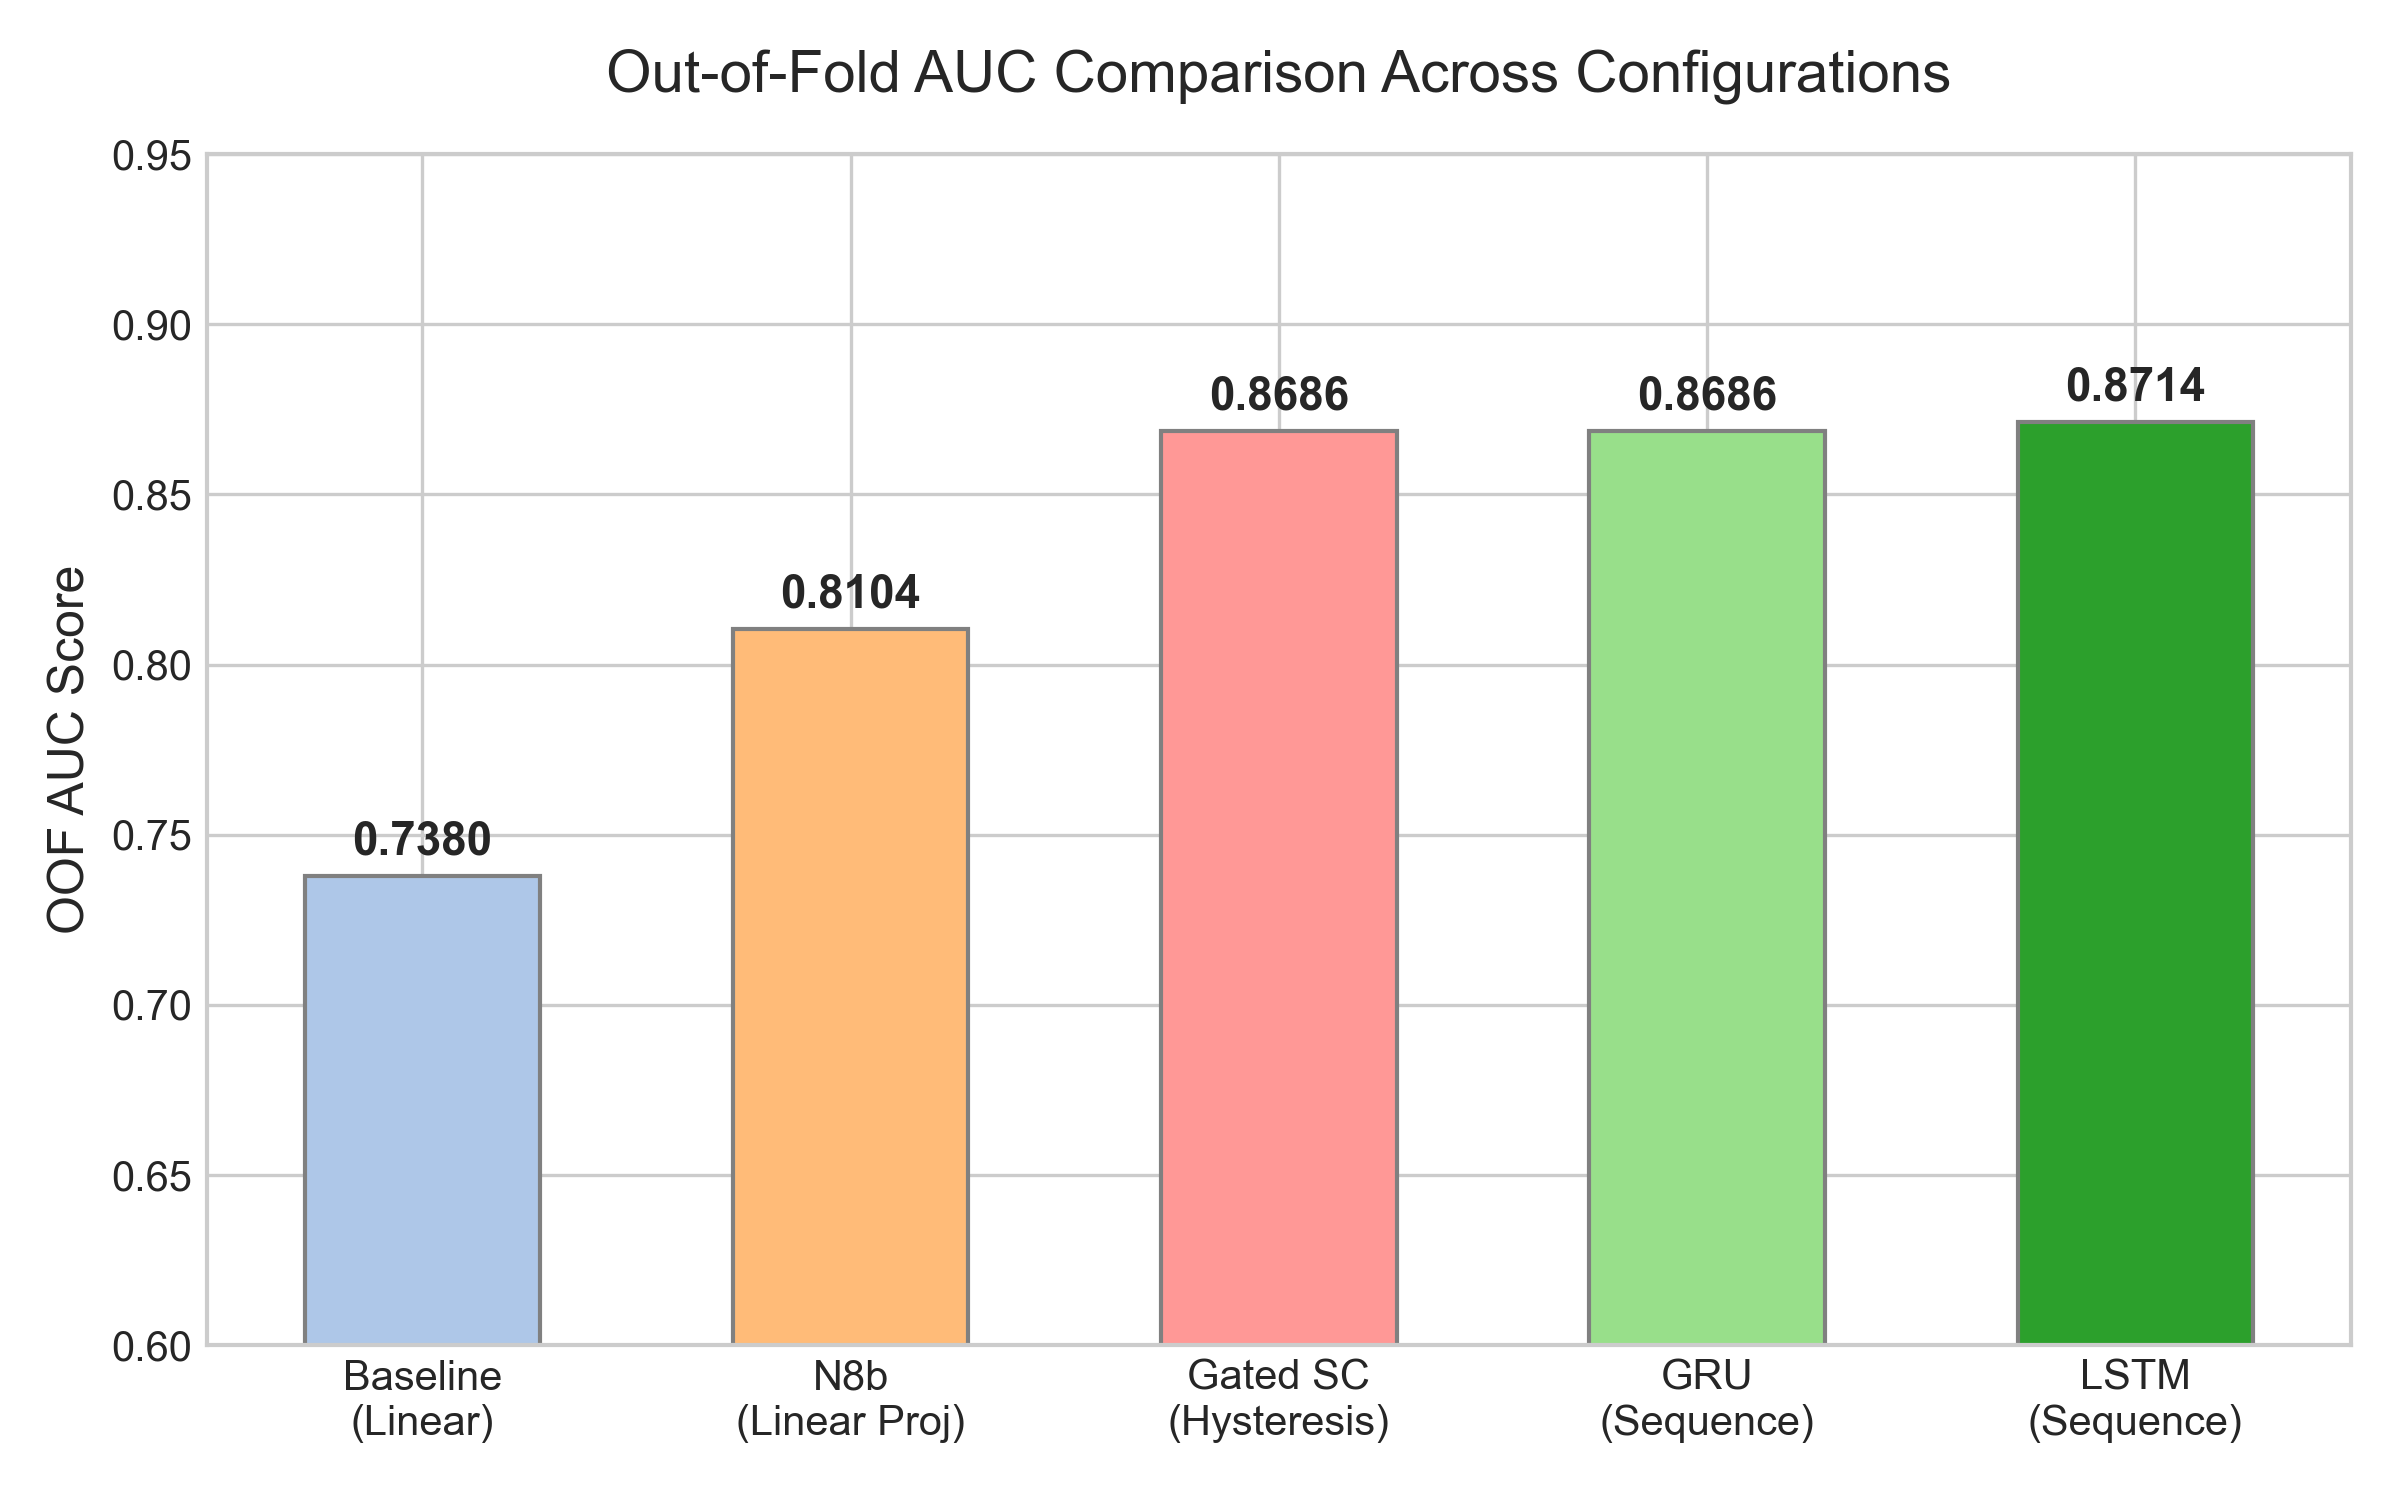
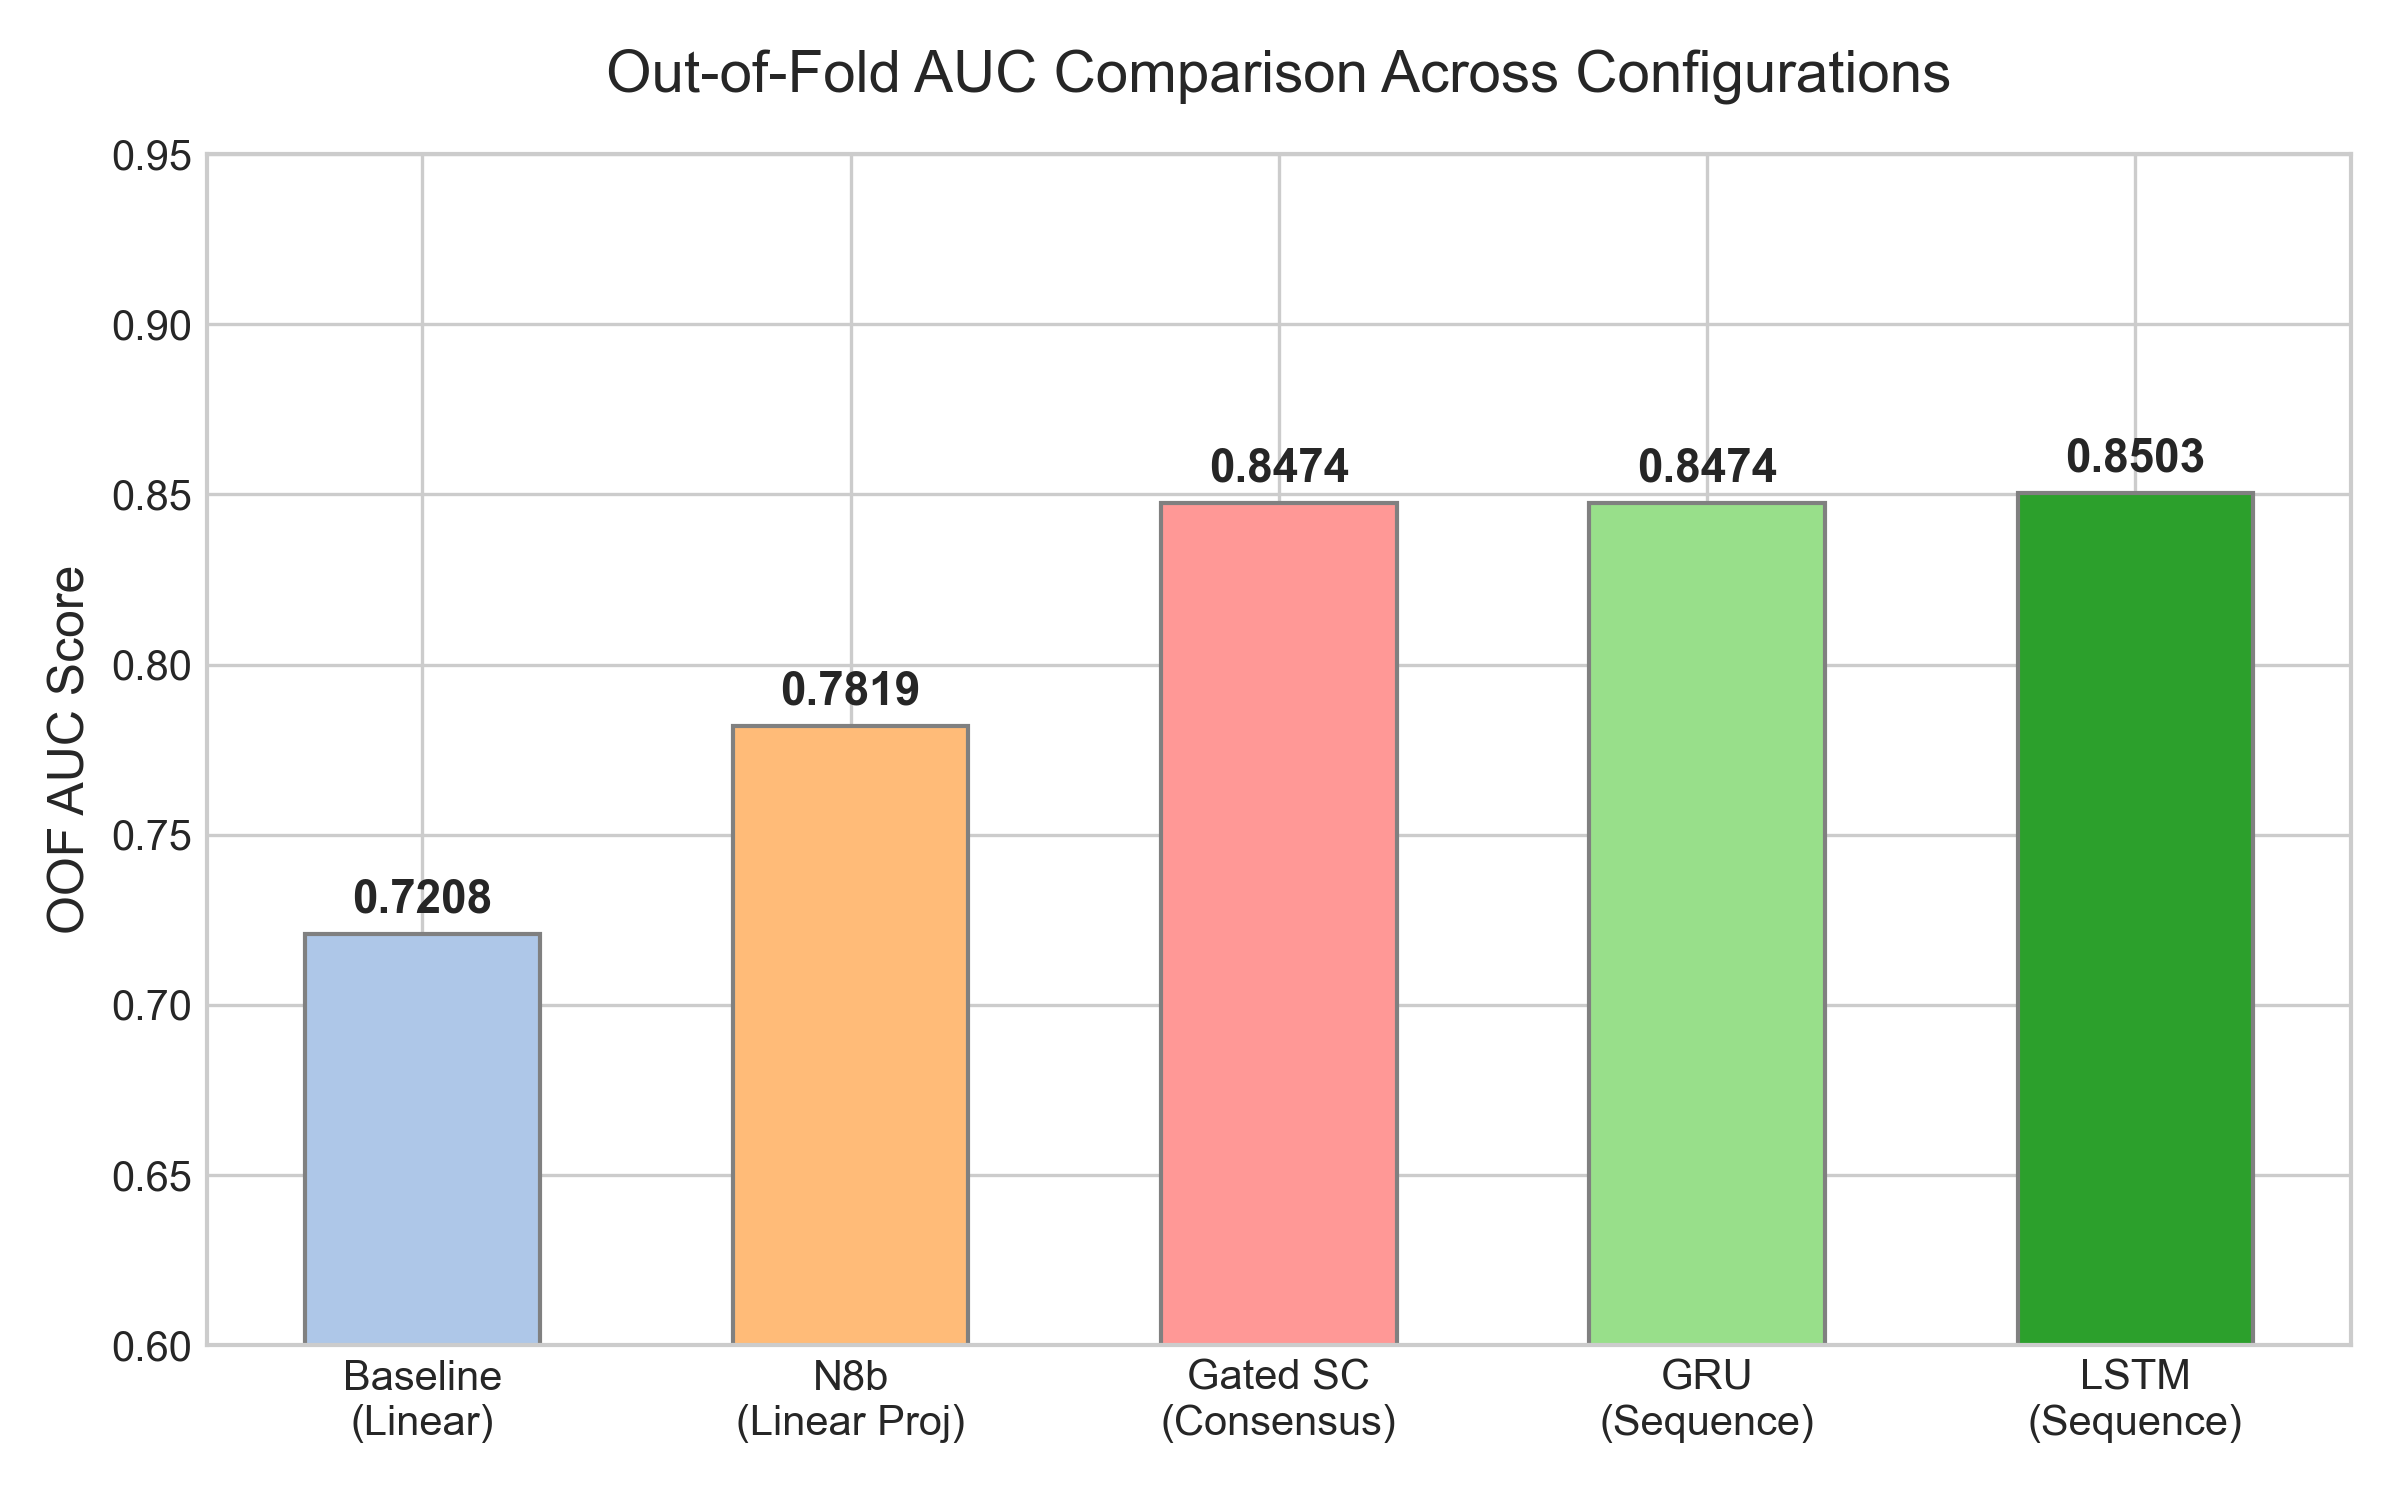
docs: regenerate plots to reflect final tournament AUC numbers

diff --git a/research/generate_july_16_plots.py b/research/generate_july_16_plots.py
@@ -21,8 +21,8 @@ plt.rcParams.update({
 # PLOT 1: Out-of-Fold AUC Comparison
 # -------------------------------------------------------------
 fig, ax = plt.subplots(figsize=(8, 5))
-configs = ['Baseline\n(Linear)', 'N8b\n(Linear Proj)', 'Gated SC\n(Hysteresis)', 'GRU\n(Sequence)', 'LSTM\n(Sequence)']
-aucs = [0.7380, 0.8104, 0.8686, 0.8686, 0.8714]
+configs = ['Baseline\n(Linear)', 'N8b\n(Linear Proj)', 'Gated SC\n(Consensus)', 'GRU\n(Sequence)', 'LSTM\n(Sequence)']
+aucs = [0.7208, 0.7819, 0.8474, 0.8474, 0.8503]
 colors = ['#aec7e8', '#ffbb78', '#ff9896', '#98df8a', '#2ca02c']
 
 bars = ax.bar(configs, aucs, color=colors, edgecolor='grey', width=0.55)
@@ -174,7 +174,7 @@ plt.close()
 # -------------------------------------------------------------
 fig, ax = plt.subplots(figsize=(8, 5))
 categories = ['Trained on bf16\nTested on bf16', 'Trained on bf16\nTested on 4-bit (AWQ/GPTQ)']
-auc_scores = [0.8714, 0.8658]
+auc_scores = [0.8503, 0.8451]
 colors = ['#2ca02c', '#9467bd']
 
 bars = ax.bar(categories, auc_scores, color=colors, edgecolor='grey', width=0.4)
